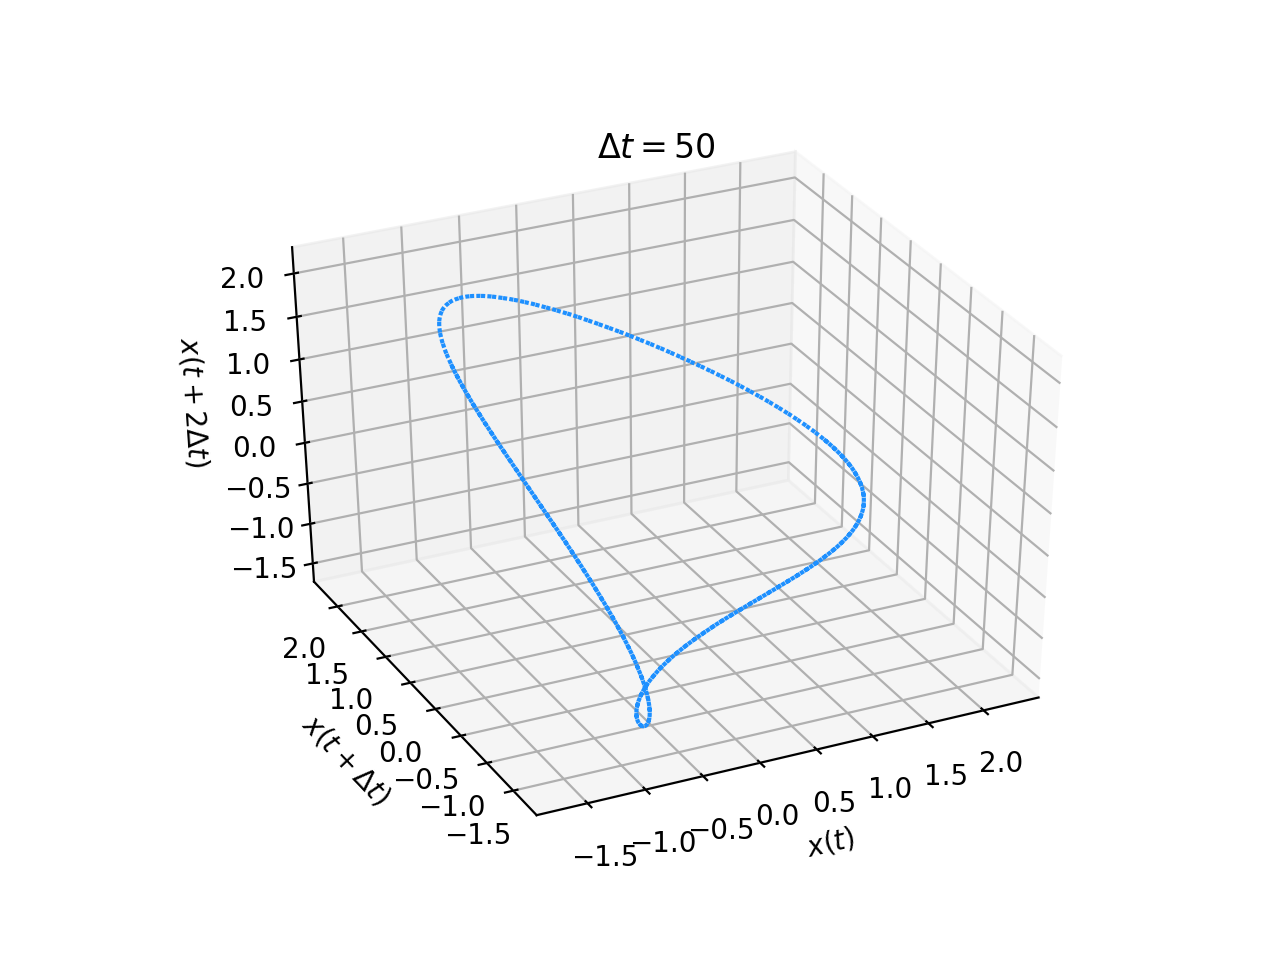
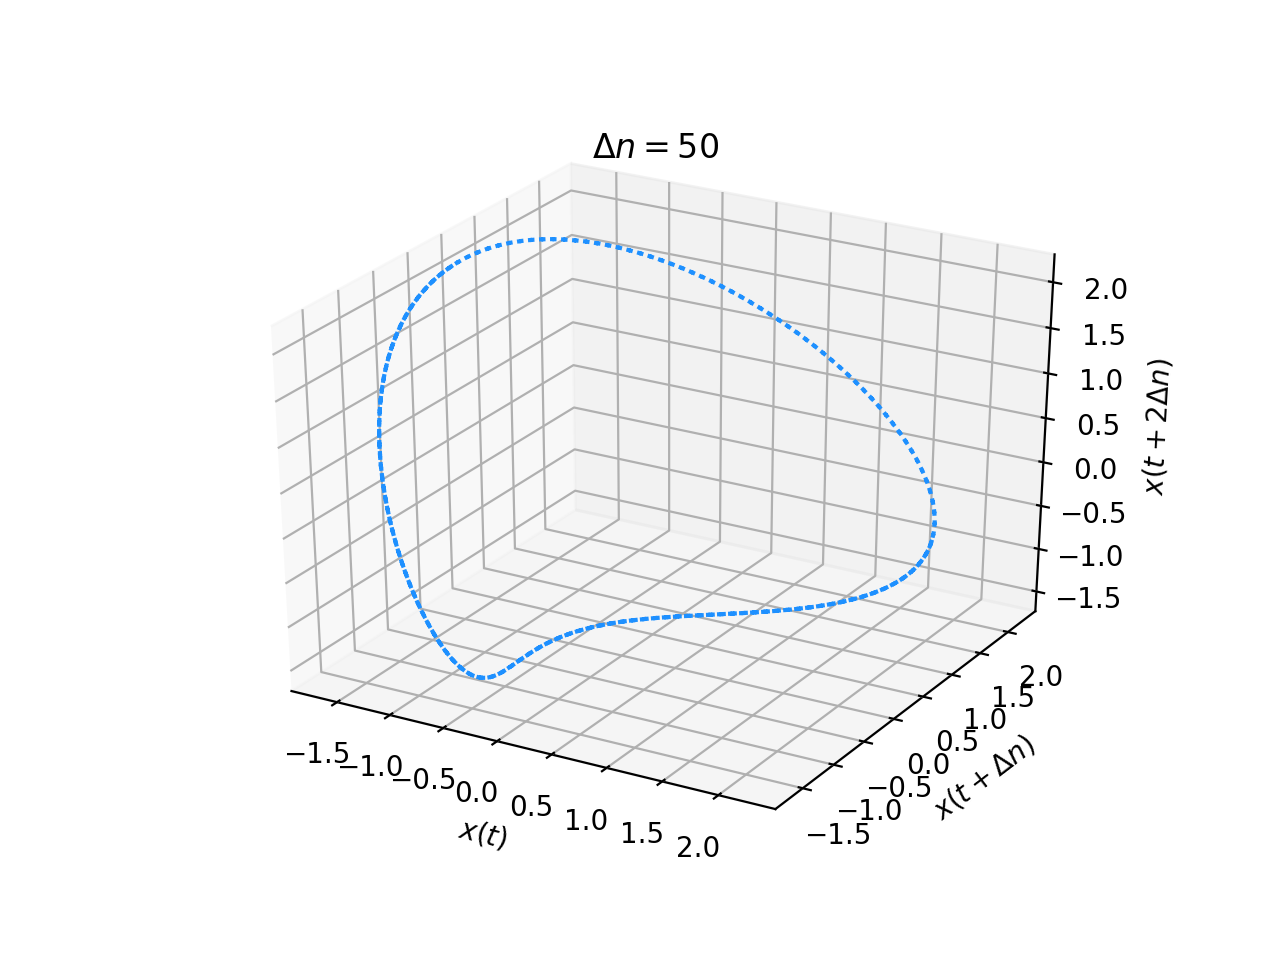
Task 4 implemented and plots

Changed region(s): [[0.125, 0.125, 0.9375, 0.9062], [0.8438, 0.5312, 0.875, 0.6562], [0.25, 0.25, 0.2812, 0.2812]]

diff --git a/task4/task4.py b/task4/task4.py
@@ -84,10 +84,10 @@ def part_1():
     x = x0[:x0.shape[0] - n_delay]
     delayed = x0[n_delay:]
     fig, ax = plt.subplots(1, 1)
-    ax.plot(x, delayed, c='dodgerblue', linewidth=0.5)
+    ax.plot(x, delayed, c='dodgerblue', linewidth=0.5) # x0
     ax.set_xlabel('$x(t)$')
-    ax.set_ylabel('$x(t+ \Delta t)$')
-    ax.set_title('$\Delta t = {}$'.format(n_delay))
+    ax.set_ylabel('$x(t+ \Delta n)$')
+    ax.set_title('$\Delta n = {}$'.format(n_delay))
     plt.show()
 
     # Plotting the coordinate against its delayed version , 3 dimensional
@@ -99,9 +99,9 @@ def part_1():
     ax0 = fig.gca(projection='3d')
     ax0.plot(x_2, delayed_1, delayed_2, c='dodgerblue', linestyle=':', antialiased=True)
     ax0.set_xlabel('$x(t)$')
-    ax0.set_ylabel('$x(t+ \Delta t)$')
-    ax0.set_zlabel('$x(t+ 2 \Delta t)$')
-    ax0.set_title('$\Delta t = {}$'.format(n_delay))
+    ax0.set_ylabel('$x(t+ \Delta n)$')
+    ax0.set_zlabel('$x(t+ 2 \Delta n)$')
+    ax0.set_title('$\Delta n = {}$'.format(n_delay))
     plt.show()
 
 def main():
